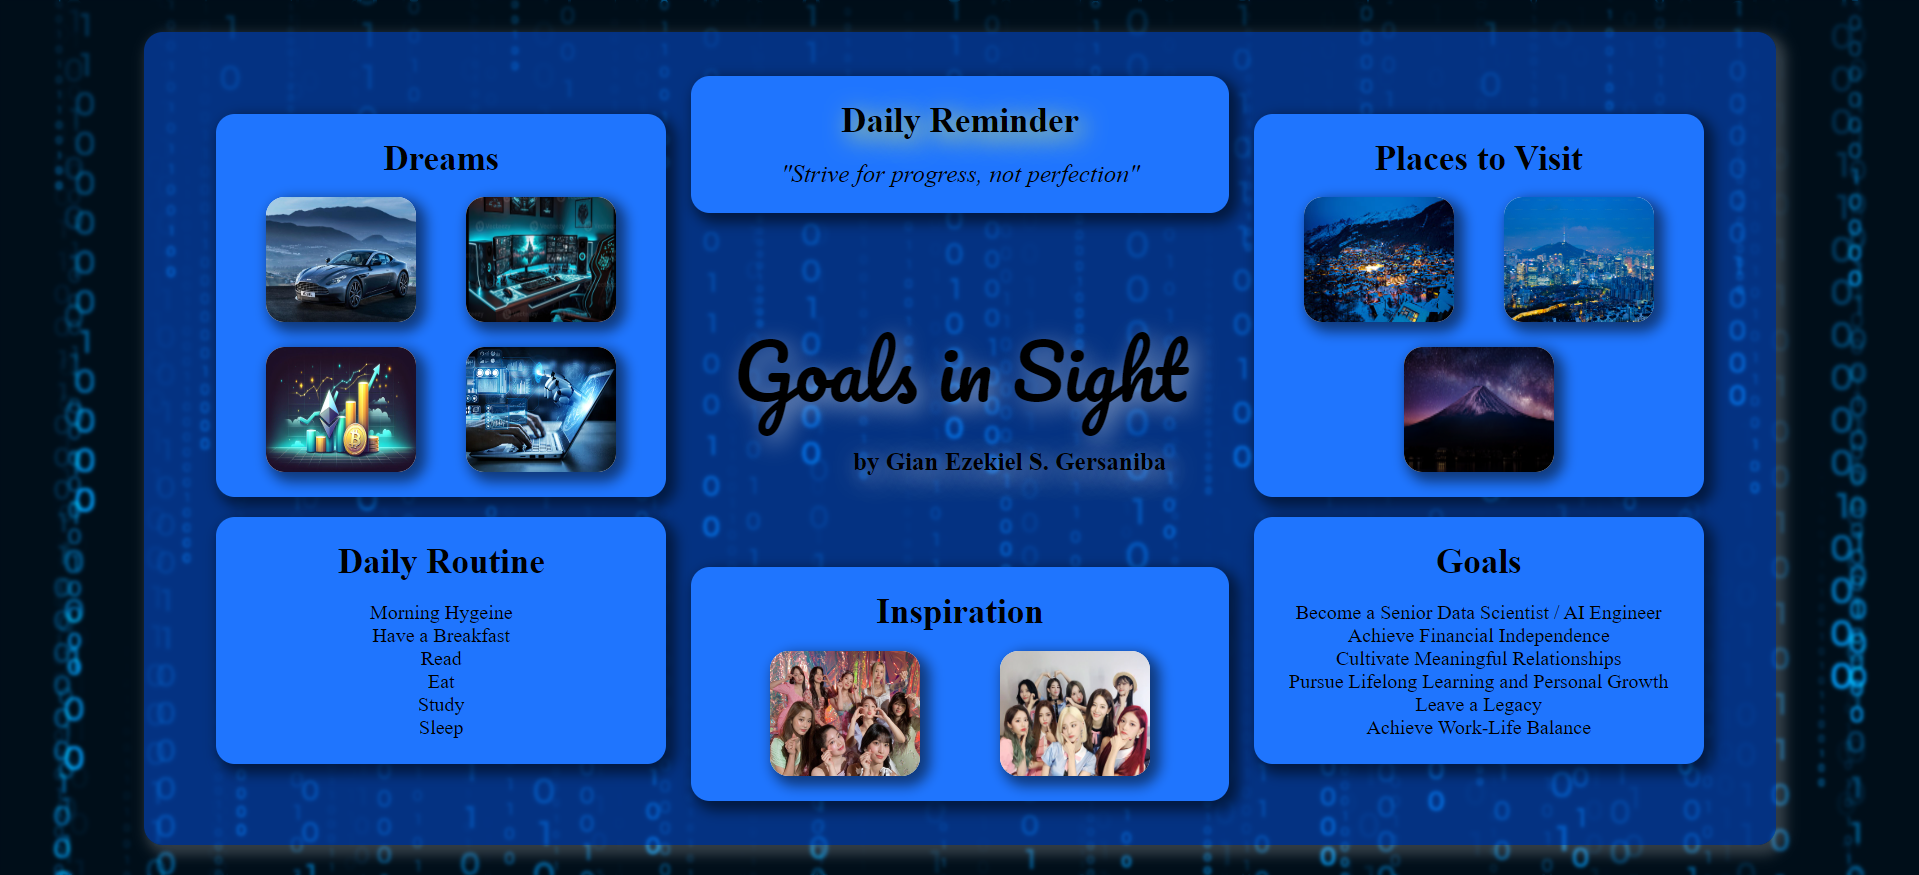
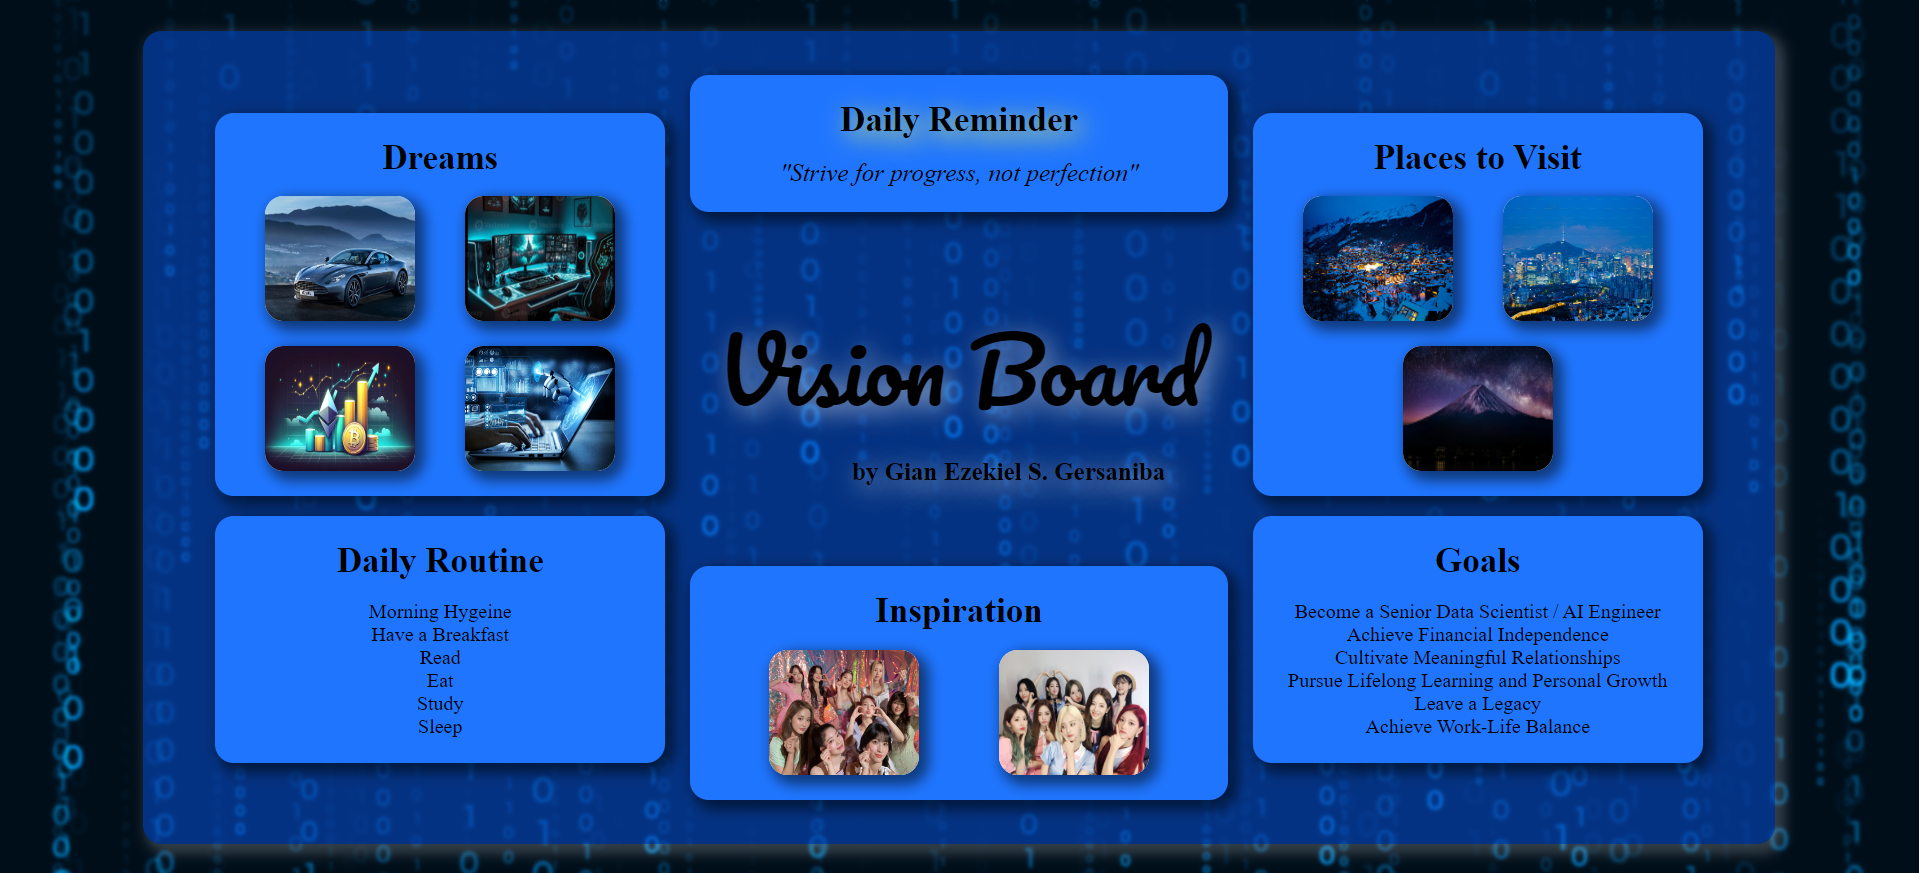
change the title

diff --git a/Lab Activity/Laboratory Activity 2 - 03-10-2024/visionboard.html b/Lab Activity/Laboratory Activity 2 - 03-10-2024/visionboard.html
@@ -55,7 +55,7 @@
 
                 <!-- title -->
                 <div class="title">
-                    <h1>Goals in Sight</h1>
+                    <h1>Vision Board</h1>
                     <p>by Gian Ezekiel S. Gersaniba</p>
                 </div>
 

diff --git a/Lab Activity/Laboratory Activity 2 - 03-10-2024/styles.css b/Lab Activity/Laboratory Activity 2 - 03-10-2024/styles.css
@@ -140,7 +140,7 @@ h3 {
     font-weight: 400;
     font-style: normal;
     text-align: center;
-    font-size: 60px;
+    font-size: 70px;
     text-shadow: 5px 5px 20px rgba(255, 255, 255, 0.5);
 }
 
